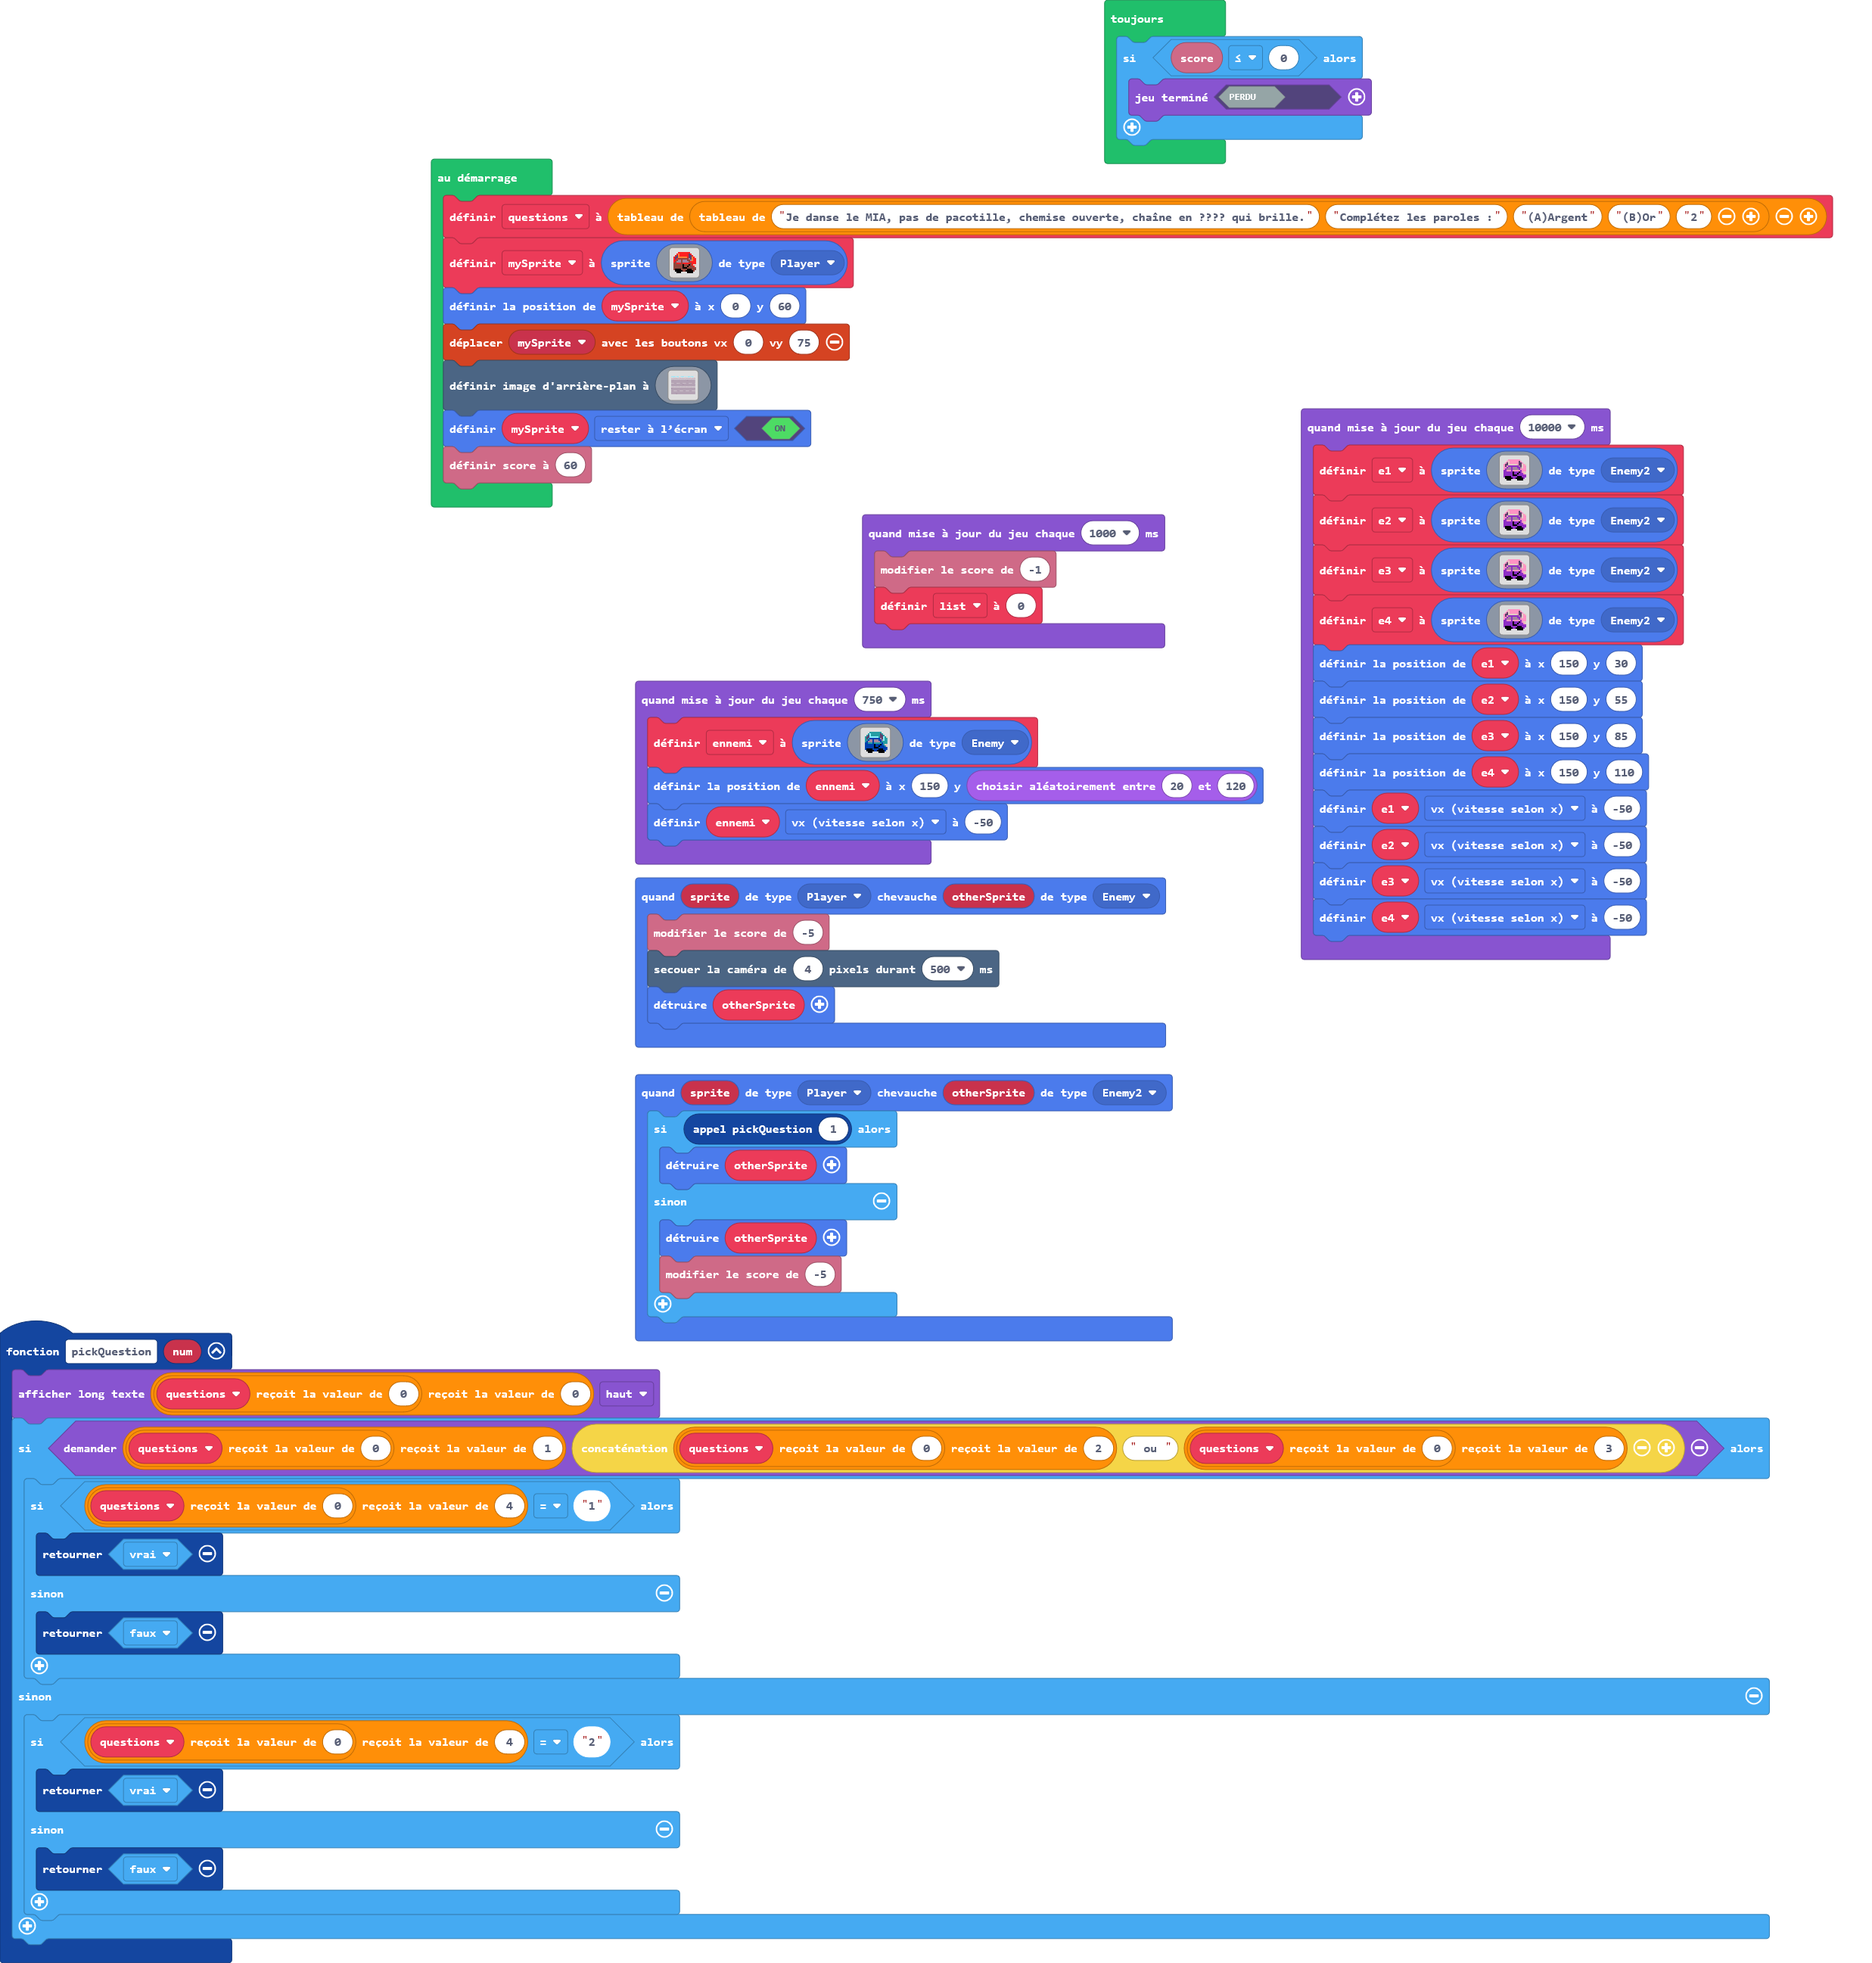
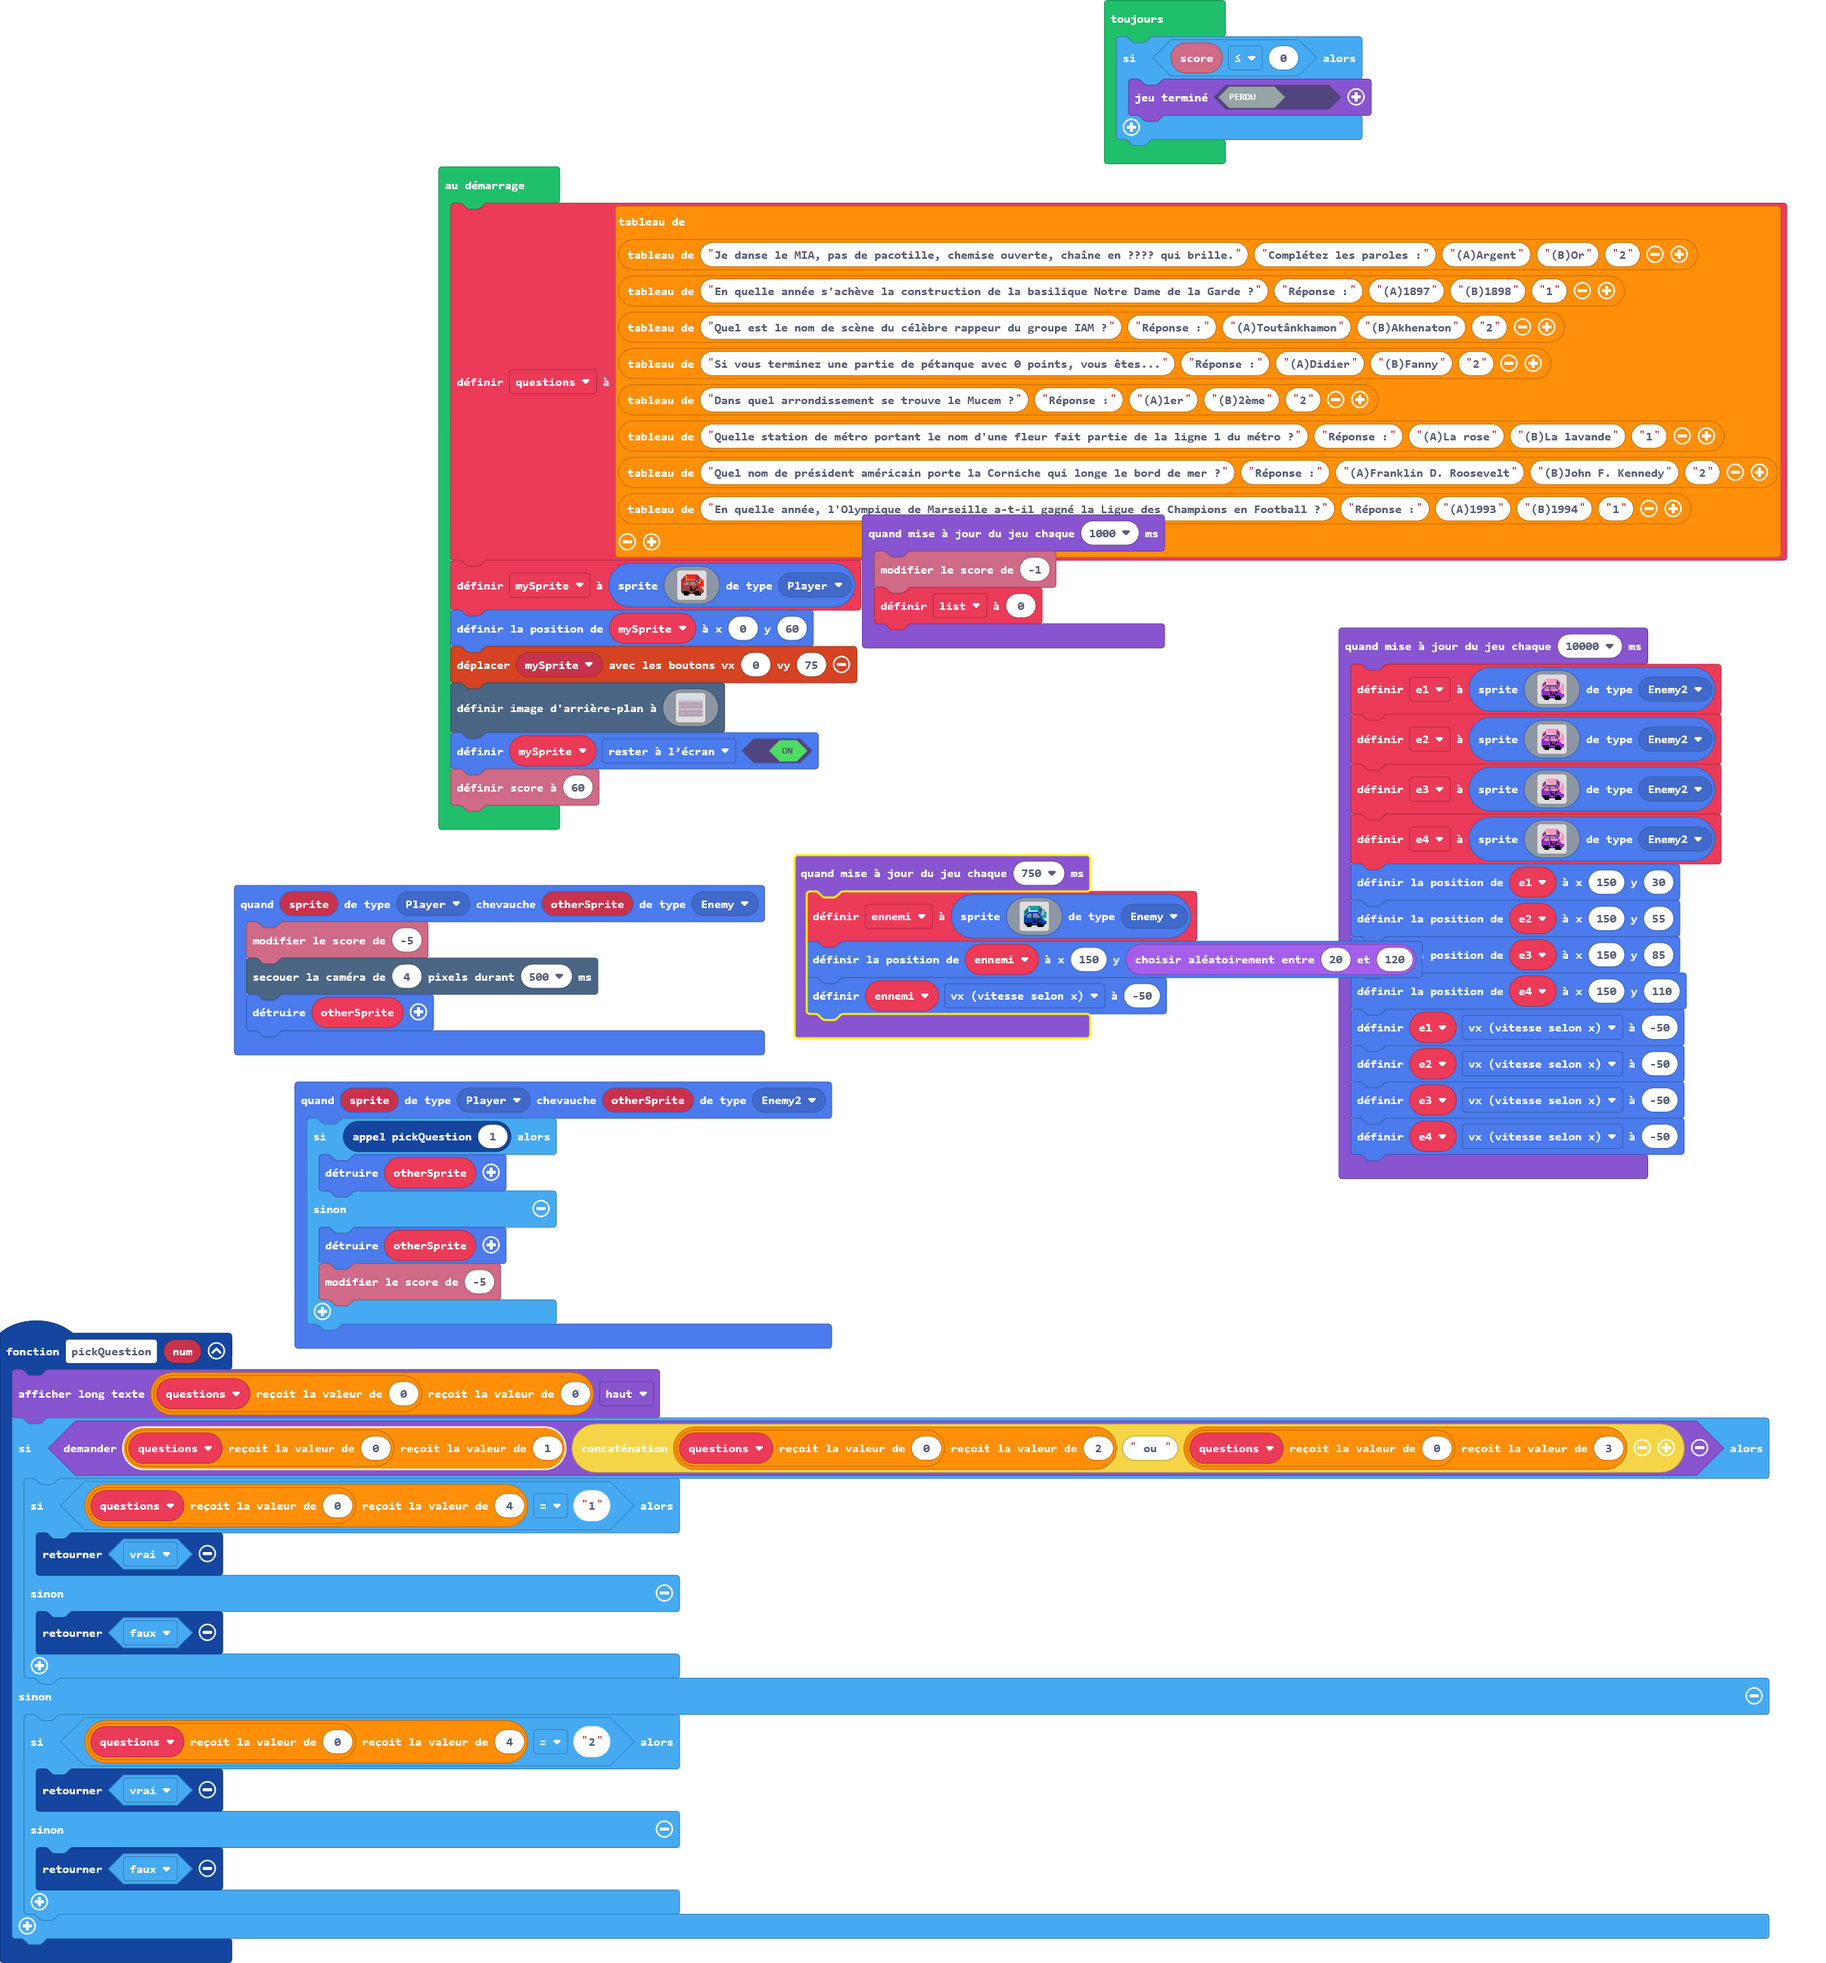
Mise à jour main.blocks, main.ts

diff --git a/main.ts b/main.ts
@@ -37,7 +37,16 @@ let e1: Sprite = null
 let list = 0
 let ennemi: Sprite = null
 let questions: string[][] = []
-questions = [["Je danse le MIA, pas de pacotille, chemise ouverte, chaîne en ???? qui brille.", "Complétez les paroles :", "(A)Argent", "(B)Or", "2"]]
+questions = [
+["Je danse le MIA, pas de pacotille, chemise ouverte, chaîne en ???? qui brille.", "Complétez les paroles :", "(A)Argent", "(B)Or", "2"],
+["En quelle année s'achève la construction de la basilique Notre Dame de la Garde ?", "Réponse :", "(A)1897", "(B)1898", "1"],
+["Quel est le nom de scène du célèbre rappeur du groupe IAM ?", "Réponse :", "(A)Toutânkhamon", "(B)Akhenaton", "2"],
+["Si vous terminez une partie de pétanque avec 0 points, vous êtes...", "Réponse :", "(A)Didier", "(B)Fanny", "2"],
+["Dans quel arrondissement se trouve le Mucem ?", "Réponse :", "(A)1er", "(B)2ème", "2"],
+["Quelle station de métro portant le nom d'une fleur fait partie de la ligne 1 du métro ?", "Réponse :", "(A)La rose", "(B)La lavande", "1"],
+["Quel nom de président américain porte la Corniche qui longe le bord de mer ?", "Réponse :", "(A)Franklin D. Roosevelt", "(B)John F. Kennedy", "2"],
+["En quelle année, l'Olympique de Marseille a-t-il gagné la Ligue des Champions en Football ?", "Réponse :", "(A)1993", "(B)1994", "1"]
+]
 let mySprite = sprites.create(img`
     . . . . . . . . . . . . . . . . 
     . . . . 2 2 2 2 2 2 2 2 . . . . 
